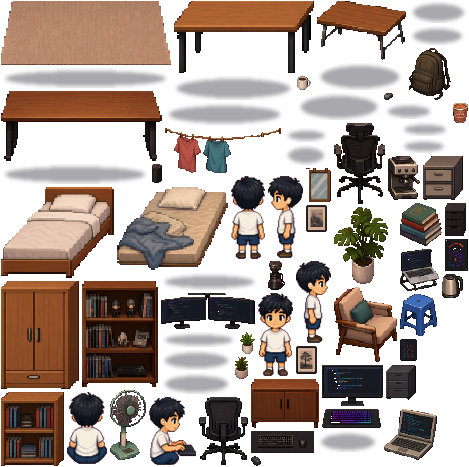
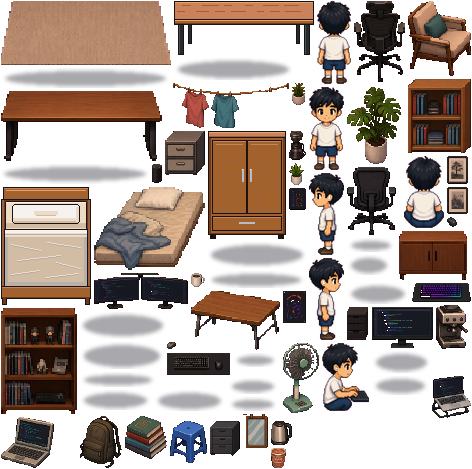
feat(art): redraw junior bed, desk, and wardrobe
Swap in the native junior furniture, including shadows, and move the bed, bookshelf, and wardrobe so the room matches the shadowed composite.

diff --git a/tests/unit/resolveScene.test.ts b/tests/unit/resolveScene.test.ts
@@ -5,7 +5,7 @@ import { resolveScene } from "@/game/layout/resolveScene";
 const frames = (sprite: string) => {
   const sizes: Record<string, [number, number]> = {
     "furniture/junior/monitor": [61, 41],
-    "furniture/junior/desk": [140, 72],
+    "furniture/junior/desk": [140, 54],
     "furniture/senior/standing_desk": [161, 70],
     "furniture/senior/dual_monitor": [94, 36],
   };

diff --git a/docs/PLAN.md b/docs/PLAN.md
@@ -85,8 +85,8 @@ The room art has an effective "art pixel" ≈ 1 native px (3 source px).
 | student/noodle_cup ×2 | 15×20 | (203,128), (189,126) | 0.73 | |
 | student/clothesline (wall) | 116×45 | (66,78) | 0.80 | |
 | student/mirror (wall) | 25×34 | (84,83) | 0.90 | |
-| junior/bed | 113×91 | (42,203); left edge at x=−14 | 1.35 | **proportions off – redraw later** |
-| junior/desk | 140×72 | (205,153) | 1.73 | **wrong angle – redraw later**; heavy resample |
+| junior/bed | 90×118 | (46,203); left edge at x=1 | native | redrawn (pillow + blanket); shadow kept |
+| junior/desk | 140×54 | (205,153) | native | redrawn front-on; sockets unchanged |
 | junior/office_chair | 49×68 | seat socket | 1.18 | |
 | junior/drawer_pedestal | 30×35 | desk.under | 0.65 | |
 | junior/monitor | 61×41 | desk.display | 0.79 | |
@@ -95,8 +95,8 @@ The room art has an effective "art pixel" ≈ 1 native px (3 source px).
 | junior/mouse | 10×10 | desk.mouse | **0.40** | heavy downsample |
 | junior/mug | 14×14 | desk.cup | **0.51** | heavy downsample |
 | junior/plant_small | 15×22 | desk.plant | **0.53** | heavy downsample |
-| junior/bookshelf | 63×74 | (369,133) | 1.25 | |
-| junior/wardrobe | 78×108 | (408,199); right edge at x=447 (overflows by 20) | 1.65 | **wrong angle – redraw later** |
+| junior/bookshelf | 63×74 | (312,133) | 1.25 | moved left to sit beside the wardrobe |
+| junior/wardrobe | 78×108 | (408,134); right edge at x=447 (overflows by 20) | native | redrawn; shadow kept |
 | junior/poster_1, poster_2 (wall) | 23×32, 17×22 | (43,60), (70,59) | 0.74, **0.58** | |
 | senior/standing_desk | 161×70 | (218,175) | 1.41 | |
 | senior/ergo_chair | 51×81 | seat socket | 1.28 | |

diff --git a/docs/ART_TODO.md b/docs/ART_TODO.md
@@ -2,9 +2,7 @@
 
 ## Redraw at native scale (priority)
 
-1. **junior/wardrobe** — wrong viewing angle vs room reference.
-2. **junior/desk** — wrong angle; heavy ×1.73 resample.
-3. **junior/bed** — proportions off vs reference.
+Junior bed, desk, and wardrobe are redrawn (see `composite_junior_shadow.png`). Their shadows shipped with that drop.
 
 ## Resample quality
 
